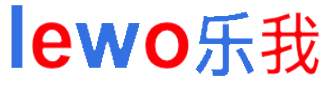
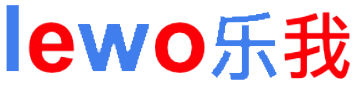
modify image at the medium

Changed region(s): [[0.0, 0.0471, 1.0, 0.9412], [0.7975, 0.2118, 0.8282, 0.2353]]

diff --git a/_sass/_base.sass b/_sass/_base.sass
@@ -1094,7 +1094,7 @@ $feature-box-div-margin-bottom: 40px
 #features
 	padding-top: 140px
 	background-color: $light-grey
-	background-image: url(/images/wheel.png)
+	background-image: url(/images/lewo.png)
 	background-position: center 60px
 	background-repeat: no-repeat
 	background-size: auto
